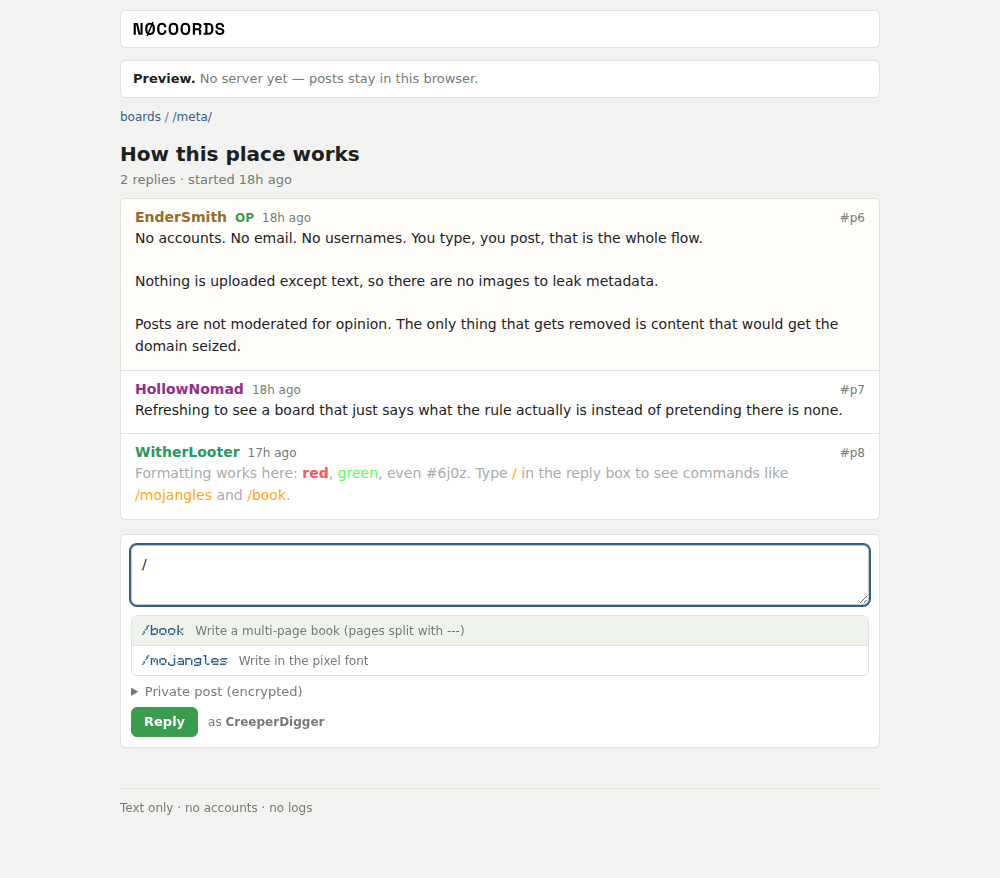
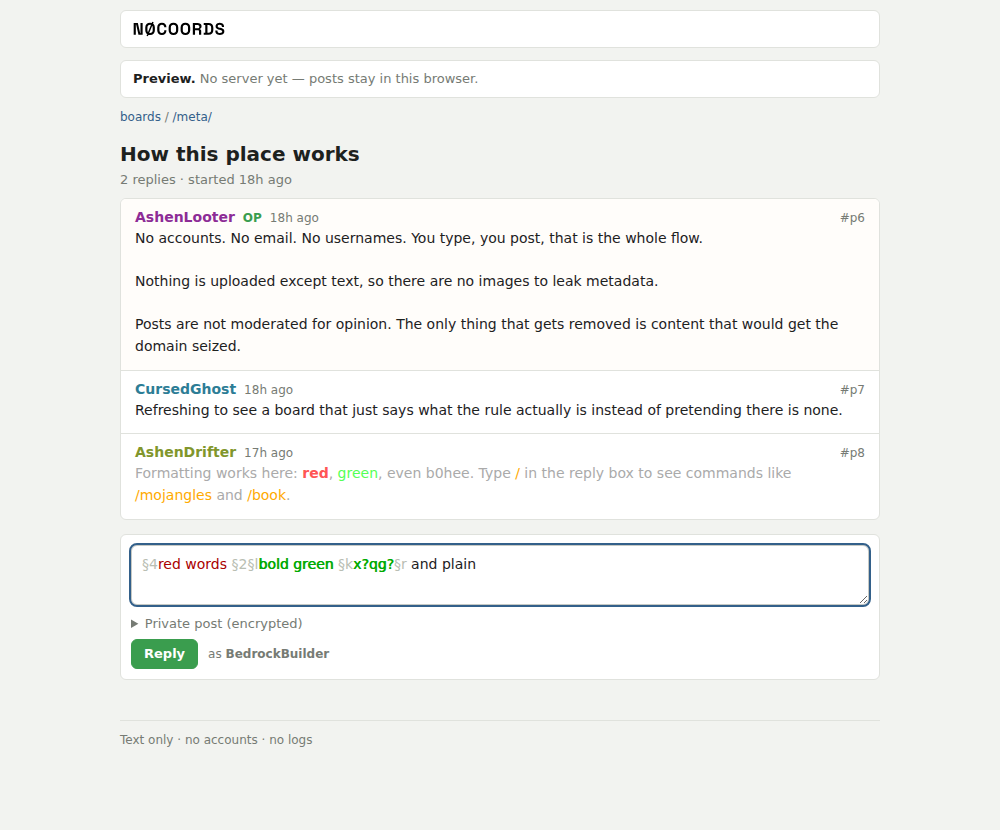
Render § formatting and /mojangles live inside the composer
The text box itself now shows formatting as you type: a styled backdrop
sits exactly behind the textarea, and when the draft uses § codes or
/mojangles the textarea's own text goes transparent (native caret kept)
so the styled copy shows through. Codes stay visible but dimmed so every
character aligns 1:1 with the caret; /mojangles switches the whole box
to the pixel font. Bold is faked with a text-shadow and italic with a
synthetic oblique so glyph widths never drift from the caret, and §k
sections scramble live in the box. Replaces the separate preview pane.

Suite at 63 assertions.

Claude-Session: https://claude.ai/code/session_01BMXtbgatWDFbBsJchyQoL7

diff --git a/forum/forum.js b/forum/forum.js
@@ -504,6 +504,89 @@ function initComposer(form, { withSubject, submit, draftKey }) {
   palette.className = "cmd-palette";
   palette.hidden = true;
   bodyInput.insertAdjacentElement("afterend", palette);
+
+  /*
+   * In-place live formatting. A styled backdrop sits exactly behind the
+   * textarea; when the draft uses \u00a7 codes or /mojangles the textarea's own
+   * text goes transparent (caret stays native) and the styled copy shows
+   * through. The \u00a7 codes stay visible but dimmed so every character lines
+   * up 1:1 with the caret. Bold is faked with a text-shadow and italic with
+   * synthetic oblique so glyph widths never change.
+   */
+  const editorWrap = document.createElement("div");
+  editorWrap.className = "editor-wrap";
+  bodyInput.before(editorWrap);
+  const backdrop = document.createElement("div");
+  backdrop.className = "editor-backdrop";
+  backdrop.setAttribute("aria-hidden", "true");
+  editorWrap.append(backdrop, bodyInput);
+  bodyInput.classList.add("editor-input");
+
+  function escapeChar(c) {
+    return c === "&" ? "&amp;" : c === "<" ? "&lt;" : c === ">" ? "&gt;" : c;
+  }
+
+  function renderEditor() {
+    const value = bodyInput.value;
+    const moj = /^\/mojangles(\s|$)/.test(value);
+    editorWrap.classList.toggle("mojangles-mode", moj);
+    const active = moj || value.includes("\u00a7");
+    editorWrap.classList.toggle("editor-live", active);
+    if (!active) {
+      backdrop.innerHTML = "";
+      return;
+    }
+
+    const state = { color: null, l: false, o: false, n: false, m: false, k: false };
+    let out = "";
+    let buf = "";
+    const flush = () => {
+      if (!buf) return;
+      const cls = [];
+      if (state.color) cls.push("mc-" + state.color);
+      if (state.l) cls.push("e-l");
+      if (state.o) cls.push("e-o");
+      if (state.n) cls.push("mc-n");
+      if (state.m) cls.push("mc-m");
+      if (state.k) cls.push("mc-k");
+      out += cls.length ? `<span class="${cls.join(" ")}">${buf}</span>` : buf;
+      buf = "";
+    };
+
+    let i = 0;
+    if (moj) {
+      out += `<span class="e-code">/mojangles</span>`;
+      i = "/mojangles".length;
+    }
+    for (; i < value.length; i++) {
+      const c = value[i];
+      const next = value[i + 1]?.toLowerCase();
+      if (c === "\u00a7" && next && /[0-9a-fk-or]/.test(next)) {
+        flush();
+        out += `<span class="e-code">\u00a7${escapeChar(value[i + 1])}</span>`;
+        i++;
+        if (/[0-9a-f]/.test(next)) {
+          state.color = next;
+          state.l = state.o = state.n = state.m = state.k = false;
+        } else if (next === "r") {
+          state.color = null;
+          state.l = state.o = state.n = state.m = state.k = false;
+        } else {
+          state[next] = true;
+        }
+      } else {
+        buf += escapeChar(c);
+      }
+    }
+    flush();
+    backdrop.innerHTML = out + "\n\u200b";
+    backdrop.scrollTop = bodyInput.scrollTop;
+  }
+
+  bodyInput.addEventListener("scroll", () => {
+    backdrop.scrollTop = bodyInput.scrollTop;
+  });
+
   let palItems = [];
   let palIndex = 0;
   let palDismissed = false;
@@ -567,6 +650,7 @@ function initComposer(form, { withSubject, submit, draftKey }) {
   bodyInput.addEventListener("input", () => {
     palDismissed = false;
     renderPalette();
+    renderEditor();
   });
   bodyInput.addEventListener("keydown", (event) => {
     if (palette.hidden) return;
@@ -605,7 +689,10 @@ function initComposer(form, { withSubject, submit, draftKey }) {
   if (draftKey) {
     try {
       const saved = sessionStorage.getItem(draftKey);
-      if (saved) bodyInput.value = saved;
+      if (saved) {
+        bodyInput.value = saved;
+        renderEditor();
+      }
     } catch { /* storage unavailable */ }
     bodyInput.addEventListener("input", () => {
       try {
@@ -683,6 +770,7 @@ function initComposer(form, { withSubject, submit, draftKey }) {
       await submit({ subject, body: payloadBody, proof });
 
       bodyInput.value = "";
+      renderEditor();
       bodyInput.style.height = "";
       if (passInput) passInput.value = "";
       if (draftKey) {

diff --git a/forum/forum.css b/forum/forum.css
@@ -470,6 +470,68 @@ p {
   color: var(--muted);
 }
 
+/* ---------- in-place live formatting editor ---------- */
+
+.editor-wrap {
+  position: relative;
+}
+
+/* Mirrors the textarea's metrics exactly so styled text sits under the caret. */
+.editor-backdrop {
+  position: absolute;
+  inset: 0;
+  z-index: 0;
+  padding: 8px 10px;
+  border: 1px solid transparent;
+  border-radius: 6px;
+  font-family: var(--sans);
+  font-size: 14px;
+  line-height: 1.5;
+  white-space: pre-wrap;
+  overflow-wrap: break-word;
+  word-break: break-word;
+  overflow: hidden;
+  color: var(--text);
+  pointer-events: none;
+}
+
+.editor-wrap .editor-input {
+  position: relative;
+  z-index: 1;
+}
+
+.editor-live .editor-backdrop {
+  background: var(--white);
+}
+
+.editor-live .editor-input {
+  color: transparent;
+  caret-color: var(--text);
+  background: transparent;
+}
+
+.mojangles-mode .editor-input,
+.mojangles-mode .editor-backdrop {
+  font-family: "Monocraft", var(--mono);
+  font-size: 15px;
+}
+
+/* The codes themselves stay visible but recede. */
+.e-code {
+  color: #b9beb3;
+}
+
+/* Metric-safe bold and italic: shadow-thickened and synthetically slanted,
+   so glyph advances match the invisible textarea text. */
+.e-l {
+  text-shadow: 0.045em 0 currentColor;
+}
+
+.e-o {
+  font-style: oblique 12deg;
+}
+
+
 
 /* ---------- /book posts ---------- */
 

diff --git a/forum/README.md b/forum/README.md
@@ -131,6 +131,11 @@ colors, `§l` bold, `§o` italic, `§n` underline, `§m` strikethrough, `§k`
 obfuscated (animated scramble), `§r` reset. As in the game, a color code
 resets the style flags.
 
+Formatting renders live inside the composer while typing: a styled layer sits
+behind the textarea, codes stay visible but dimmed, and /mojangles switches
+the whole box to the pixel font. Bold uses a text-shadow and italic a
+synthetic oblique so glyph widths never drift from the caret.
+
 ## Local texture overrides (for private testing only)
 
 The book reader can use real game textures **on your own machine only**. The
